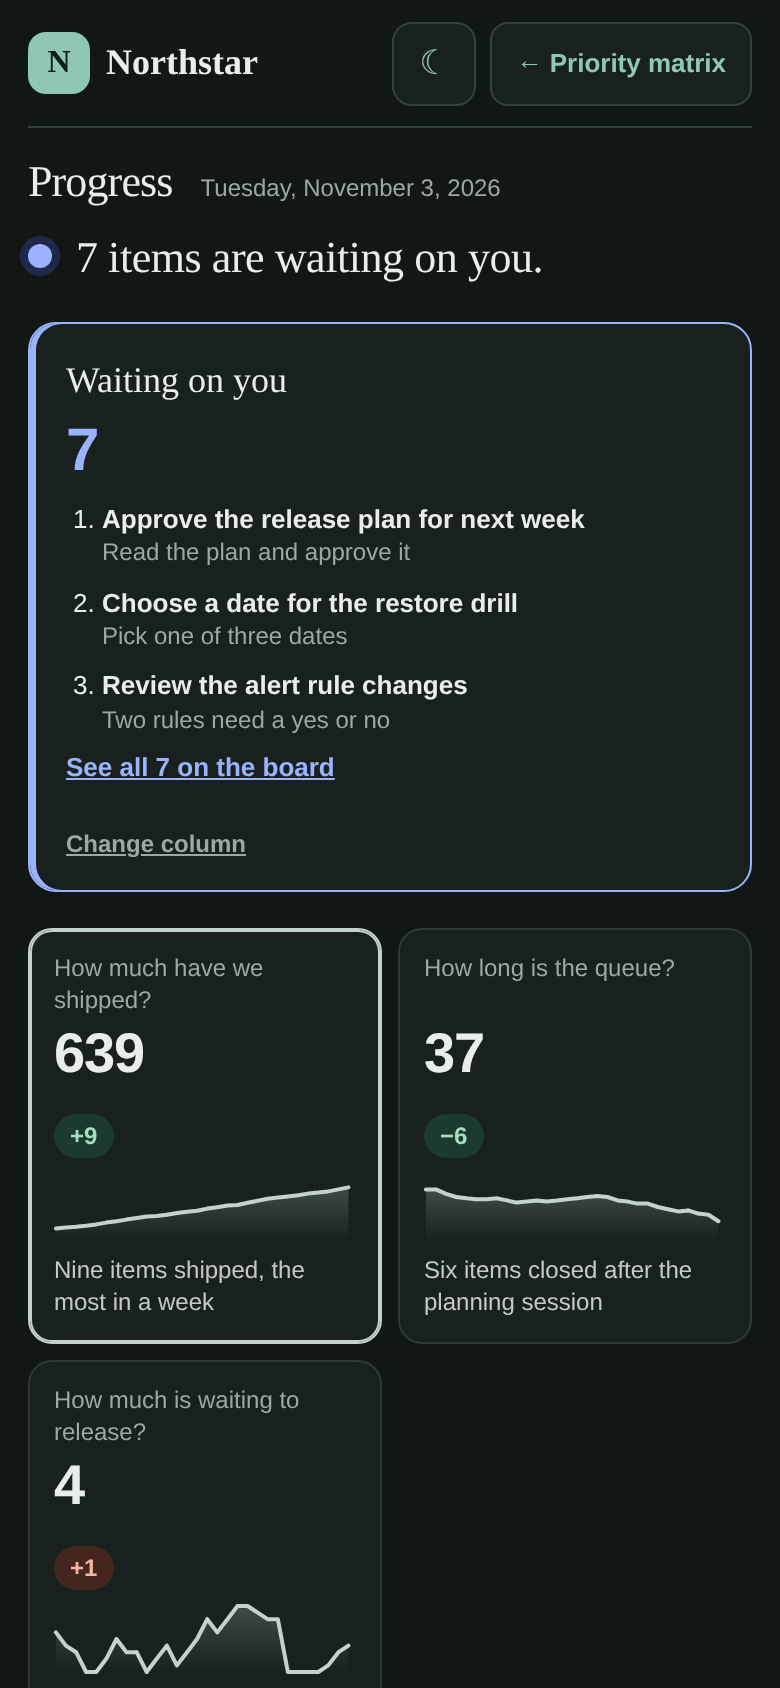
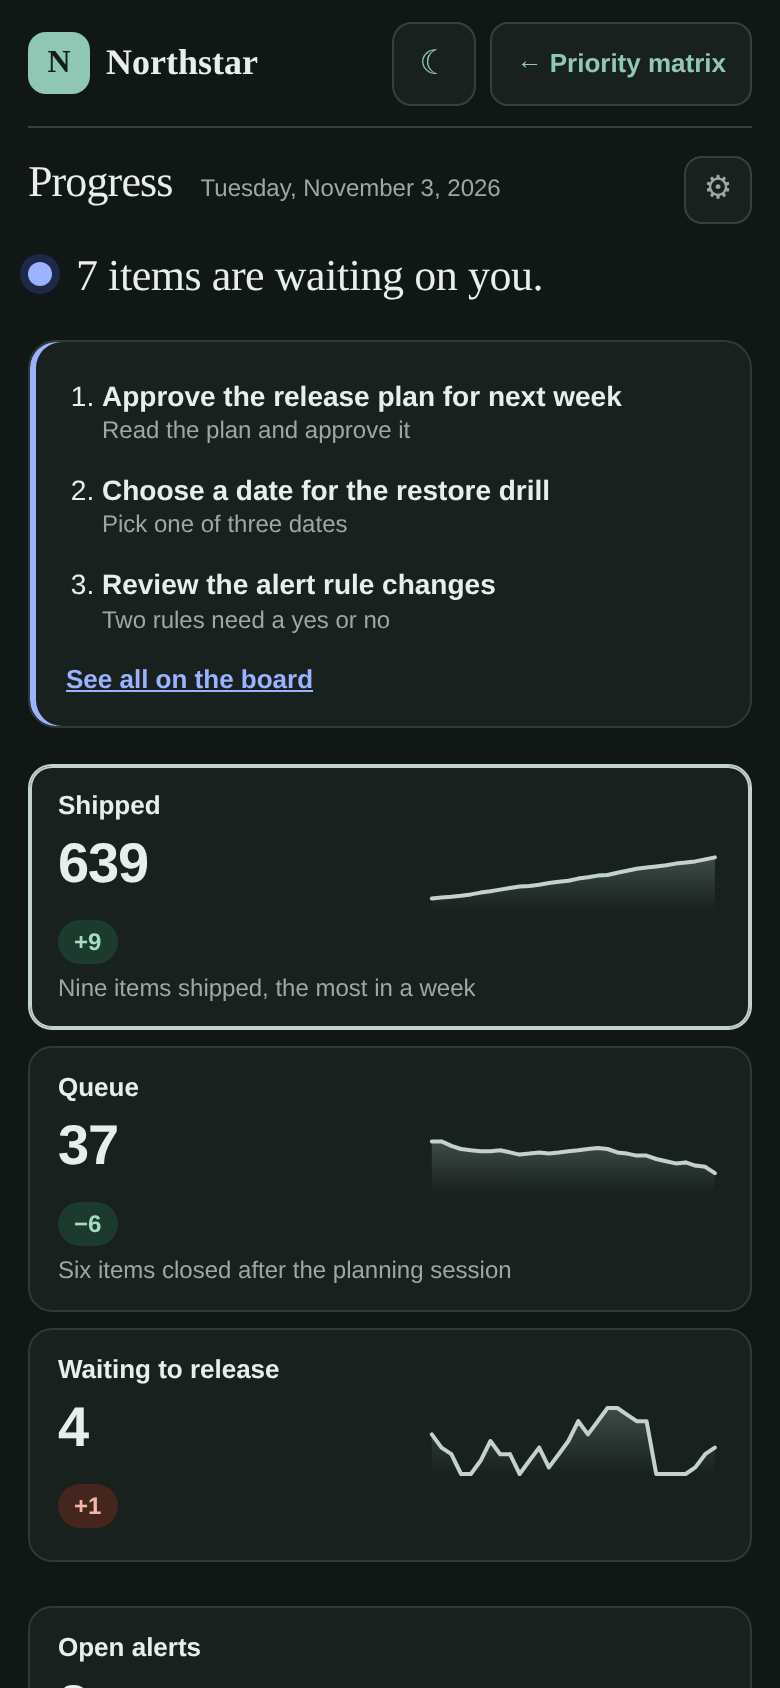
fix(progress): review changes; a server that fails to start no longer hangs the tests
Page:
- "Waiting on you" starts level with the first row of tiles and runs the
  bands' height; it drops its title and count (the headline has the count)
  and links "See all on the board"
- choosing its column moves to a settings button beside the page title
- tiles show a short label; the full question is the hover title
- the bands share one grid, so rows line up and are the same height; a tile
  without a "because" line keeps that space
- no chip when nothing changed
- phone: one column of tiles with the chart beside the number
- contrast is computed from the CSS tokens (support/progress-contrast.mjs)
  and tested; the estimated line was darkened to pass 3:1 on the page color

Tests:
- support/server-fixture.mjs killed nothing when a server missed its 5 s start
  deadline, so the live child kept the test file from exiting and the whole
  run hung under load. It now kills the server, fails the start, and waits
  up to 20 s (TEST_SERVER_START_MS). server-fixture.test.mjs covers it.

Claude-Session: https://claude.ai/code/session_01NksWZT8NUcsx668Qg2GBvW

diff --git a/public/progress.css b/public/progress.css
@@ -1,7 +1,7 @@
 /* Progress page. One accent color means "waiting on you"; everything else stays neutral.
    docs/progress-page.md explains the layout and the reading order. */
 :root {
-  --series:#3f504a; --series-wash:#3f504a; --estimated:#85928d; --grid:#e6ebe8;
+  --series:#3f504a; --series-wash:#3f504a; --estimated:#7b8883; --grid:#e6ebe8;
   --tile:#fff; --tile-line:#dfe5e1; --tile-hover:#f6f8f7;
   --good-ink:#1f5a43; --good-bg:#e1efe7; --bad-ink:#8c3524; --bad-bg:#f7e3de; --flat-ink:#5d6864; --flat-bg:#edf0ee;
   --accent:#2c50c4; --accent-soft:#e9eefc; --flag:#58645f; --skeleton:#e9edea; --skeleton-shine:#f5f7f6;
@@ -13,15 +13,23 @@
   --accent:#9bb3ff; --accent-soft:#1f2848; --flag:#a9b5b0; --skeleton:#1e2825; --skeleton-shine:#26322e;
 }
 
+.visually-hidden { position:absolute; width:1px; height:1px; margin:-1px; padding:0; overflow:hidden; clip:rect(0 0 0 0); white-space:nowrap; border:0; }
 .progress-head { max-width:1380px; margin:0 auto; }
+.progress-settings { margin-left:auto; align-self:center; width:34px; height:34px; padding:0; border:1px solid var(--line); border-radius:9px; color:var(--muted); background:var(--white); font-size:16px; line-height:1; }
+.progress-settings:hover { color:var(--ink); }
+.progress-settings[hidden] { display:none; }
+/* The headline spans the top; the panel starts level with the first row of tiles and runs the
+   bands' full height, so the Z ends on its list. */
 .progress-grid {
   max-width:1380px; margin:0 auto; display:grid; gap:20px 28px;
   grid-template-columns:minmax(0,1fr) 300px;
-  grid-template-areas:"headline needs" "bands needs" "focus focus" "reports reports";
+  grid-template-areas:"headline headline" "bands needs" "focus focus" "reports reports";
 }
 .progress-headline { grid-area:headline; min-width:0; }
-.progress-needs { grid-area:needs; align-self:end; }
-.bands { grid-area:bands; min-width:0; display:grid; grid-auto-columns:minmax(0,1fr); grid-auto-flow:column; gap:36px; align-items:start; }
+.progress-headline:empty { display:none; }
+.progress-needs { grid-area:needs; align-self:stretch; display:grid; }
+/* One grid for every band: each band is a column, and rows share one height so a row reads across. */
+.bands { grid-area:bands; min-width:0; display:grid; grid-template-columns:repeat(var(--bands, 3), minmax(0,1fr)); grid-auto-rows:1fr; column-gap:36px; row-gap:10px; }
 .focus { grid-area:focus; }
 .reports-section { grid-area:reports; }
 .progress-grid :focus-visible { outline:2px solid var(--accent); outline-offset:3px; }
@@ -31,16 +39,22 @@
 .status-dot { flex:0 0 auto; width:12px; height:12px; border-radius:50%; background:var(--accent); transform:translateY(-2px); box-shadow:0 0 0 4px var(--accent-soft); }
 
 /* 2. Bands: spacing alone separates them; tiles in a band sit close together. */
-.band { display:grid; gap:10px; min-width:0; }
+.band { display:contents; }
 .tile {
   position:relative; width:100%; min-width:0; padding:14px 16px 12px; border:1px solid var(--tile-line); border-radius:12px; background:var(--tile);
-  color:var(--ink); text-align:left; display:grid; grid-template-rows:30px 42px 22px 40px auto; row-gap:4px; font:inherit;
+  color:var(--ink); text-align:left; display:grid; grid-template-rows:auto 42px 22px 40px 32px; align-content:start; row-gap:4px; font:inherit;
+  grid-column:var(--col, auto); grid-row:var(--row, auto);
+  grid-template-areas:"label" "value" "chip" "spark" "because";
   transition:border-color .15s,background .15s,box-shadow .15s;
 }
+.tile-label { grid-area:label; color:var(--ink); font-size:13px; font-weight:650; line-height:1.3; }
+.tile-value { grid-area:value; }
+.tile-chip { grid-area:chip; }
+.tile .spark { grid-area:spark; }
+.tile-because { grid-area:because; }
 .tile:hover,.tile.linked { background:var(--tile-hover); border-color:var(--series-wash); }
 .tile.linked { box-shadow:0 0 0 1px var(--series-wash); }
 .tile[aria-pressed="true"] { border-color:var(--series); box-shadow:inset 0 0 0 1px var(--series); }
-.tile-question { color:var(--muted); font-size:12px; line-height:1.3; overflow:hidden; display:-webkit-box; -webkit-line-clamp:2; -webkit-box-orient:vertical; }
 .tile-value { display:flex; align-items:baseline; gap:6px; min-height:40px; }
 .tile-number { font-size:34px; font-weight:650; line-height:1.15; letter-spacing:-.02em; font-variant-numeric:tabular-nums; }
 .tile-unit { color:var(--muted); font-size:13px; }
@@ -49,12 +63,11 @@
 .tone-good { color:var(--good-ink); background:var(--good-bg); }
 .tone-bad { color:var(--bad-ink); background:var(--bad-bg); }
 .tone-neutral { color:var(--flat-ink); background:var(--flat-bg); }
-.tile-because { color:var(--ink); font-size:12px; line-height:1.35; opacity:.82; }
-.tile-because:empty { display:none; }
+.tile-because { color:var(--muted); font-size:12px; line-height:1.35; overflow:hidden; display:-webkit-box; -webkit-line-clamp:2; -webkit-box-orient:vertical; }
 
 /* Not measured yet: an empty outline with a faint dotted baseline. The reason is in the title. */
 .tile.unmeasured { background:transparent; border-style:dashed; }
-.tile.unmeasured .tile-question { color:var(--muted); }
+.tile.unmeasured .tile-label { color:var(--muted); }
 .spark-empty { stroke:var(--estimated); stroke-width:1.5; stroke-dasharray:1 4; stroke-linecap:round; vector-effect:non-scaling-stroke; }
 
 .spark { width:100%; height:40px; overflow:visible; }
@@ -74,14 +87,10 @@
 .spark-tip[hidden],.focus-tip[hidden] { display:none; }
 
 /* 5. Waiting on you: the end of the Z, and the only place the accent lives besides the dot. */
-.needs { padding:18px 18px 16px; border:1px solid var(--tile-line); border-radius:14px; background:var(--tile); display:grid; gap:8px; }
-.needs.has-items { border-color:var(--accent); box-shadow:inset 3px 0 0 var(--accent); }
-.needs h2 { margin:0; font:500 18px Georgia,serif; }
-.needs-count { margin:0; color:var(--muted); font-size:13px; }
-.needs-number { margin-right:4px; color:var(--ink); font-size:30px; font-weight:650; font-variant-numeric:tabular-nums; }
-.needs.has-items .needs-number { color:var(--accent); }
+.needs { padding:18px 18px 16px; border:1px solid var(--tile-line); border-radius:14px; background:var(--tile); display:grid; gap:14px; align-content:start; }
+.needs.has-items { box-shadow:inset 3px 0 0 var(--accent); }
 .needs-empty { margin:0; color:var(--muted); font-size:13px; line-height:1.45; }
-.needs-list { margin:0; padding:0 0 0 18px; display:grid; gap:8px; font-size:13px; line-height:1.35; }
+.needs-list { margin:0; padding:0 0 0 18px; display:grid; gap:12px; font-size:14px; line-height:1.35; }
 .needs-list a { color:var(--ink); font-weight:600; text-decoration:none; }
 .needs-list a:hover { text-decoration:underline; }
 .needs-meta { display:block; color:var(--muted); font-size:12px; }
@@ -167,19 +176,25 @@
 
 @media (max-width:1100px) {
   .progress-grid { grid-template-columns:minmax(0,1fr) 260px; }
-  .bands { gap:24px; }
+  .bands { column-gap:24px; }
 }
 /* Phone and narrow tablet: same order, stacked. Headline, waiting on you, bands, chart, reports. */
 @media (max-width:860px) {
   .progress-grid { grid-template-columns:minmax(0,1fr); grid-template-areas:"headline" "needs" "bands" "focus" "reports"; gap:18px; }
   .progress-needs { align-self:start; }
-  .bands { grid-auto-flow:row; grid-template-columns:minmax(0,1fr); gap:22px; }
-  .band { grid-template-columns:repeat(auto-fill,minmax(160px,1fr)); }
+  /* One column; a band is a group, and a wider gap separates the groups. */
+  .bands { display:flex; flex-direction:column; gap:22px; }
+  .band { display:grid; gap:8px; }
+  .tile {
+    grid-column:auto; grid-row:auto; grid-template-columns:minmax(0,1fr) minmax(0,44%); column-gap:14px;
+    grid-template-rows:auto auto auto auto; grid-template-areas:"label spark" "value spark" "chip spark" "because because";
+  }
+  .tile .spark { align-self:center; }
+  .tile-because:empty { display:none; }
   .focus { padding:16px 14px; }
   .progress-headline:empty { display:none; }
 }
 @media (max-width:420px) {
-  .band { grid-template-columns:minmax(0,1fr) minmax(0,1fr); gap:8px; }
-  .tile { padding:12px; }
+  .tile { padding:12px 14px; }
   .tile-number { font-size:28px; }
 }

diff --git a/public/progress.js b/public/progress.js
@@ -51,22 +51,27 @@ function renderTiles() {
   state.sparks.clear();
   const from = state.latestDate ? addDays(state.latestDate, -29) : undefined;
   let index = 0;
-  const columns = BANDS.map((band) => {
+  // One grid for every band, so a row of tiles lines up across the bands and every row is as tall
+  // as its tallest tile. Each band is a column; its tiles take rows 1, 2, 3 in position order.
+  const used = BANDS.filter((band) => state.summaries.some((summary) => (summary.def.band || 'momentum') === band.id));
+  const columns = used.map((band, column) => {
     const summaries = state.summaries.filter((summary) => (summary.def.band || 'momentum') === band.id);
-    if (!summaries.length) return null;
-    const column = el(document, 'div', { class: `band band-${band.id}`, role: 'group', 'aria-label': `${band.name}: ${band.hint.toLowerCase()}` });
-    for (const summary of summaries) {
+    const group = el(document, 'div', { class: `band band-${band.id}`, role: 'group', 'aria-label': `${band.name}: ${band.hint.toLowerCase()}` });
+    for (const [row, summary] of summaries.entries()) {
       const series = windowed(summary.series, 30, state.latestDate);
       const node = tile(document, summary, { because: because(summary), series, from, to: state.latestDate, index });
       node.style.setProperty('--i', String(index));
+      node.style.setProperty('--col', String(column + 1));
+      node.style.setProperty('--row', String(row + 1));
       index += 1;
-      column.appendChild(node);
+      group.appendChild(node);
       // The same box the view drew the sparkline with, so the crosshair lands on its points.
       const geometry = chartGeometry(series, { width: 160, height: 40, top: 4, bottom: 3, left: 1, right: 4, from, to: state.latestDate, ticks: 2 });
       state.sparks.set(summary.key, { summary, series, from, geometry });
     }
-    return column;
-  }).filter(Boolean);
+    return group;
+  });
+  bands.style.setProperty('--bands', String(used.length));
   bands.replaceChildren(...columns);
   bands.classList.toggle('reveal', !reducedMotion.matches);
   for (const node of bands.querySelectorAll('.tile')) wireTile(node);
@@ -122,9 +127,14 @@ function renderHeadline() {
 }
 
 function renderNeeds() {
-  const panel = needsPanel(document, state.needs, { admin: state.user?.role === 'admin' });
+  const admin = state.user?.role === 'admin';
+  const panel = needsPanel(document, state.needs, { admin });
   panel.querySelector('.needs-choose')?.addEventListener('click', () => chooseColumn(panel));
   document.getElementById('progress-needs').replaceChildren(panel);
+  // Choosing the column is setup, not reading: it lives behind the header's settings button.
+  const settings = document.getElementById('progress-settings');
+  settings.hidden = !admin;
+  settings.onclick = () => chooseColumn(document.querySelector('#progress-needs .needs'));
 }
 
 async function chooseColumn(panel) {
@@ -183,8 +193,8 @@ function renderFocus() {
     milestones.length ? el(document, 'span', { class: 'legend-flag' }, 'Milestone') : null);
   const plot = el(document, 'div', { class: 'focus-plot' });
   const head = el(document, 'header', { class: 'focus-head' },
-    el(document, 'div', {}, el(document, 'h2', { id: 'focus-title' }, summary.def.question || summary.def.label),
-      summary.def.description ? el(document, 'p', { class: 'focus-description' }, summary.def.description) : null),
+    el(document, 'div', {}, el(document, 'h2', { id: 'focus-title' }, summary.def.label),
+      summary.def.question ? el(document, 'p', { class: 'focus-description' }, summary.def.question) : null),
     rangeButtons);
   const details = el(document, 'details', { class: 'focus-table' }, el(document, 'summary', {}, 'Show the numbers'), el(document, 'div', { class: 'docs-table' }, dataTable(document, summary, series)));
   section.replaceChildren(head, legend, plot, details);

diff --git a/public/progress-view.js b/public/progress-view.js
@@ -52,16 +52,17 @@ export function sparkline(doc, summary, { series, from, to, width = 160, height 
 }
 
 // One tile. The number sits in the same place in every tile; the chip under it is the change since
-// the previous reading, tinted by the metric's direction.
+// the previous reading, tinted by the metric's direction. The tile shows a short label; its question
+// is the hover title. A zero change shows no chip.
 export function tile(doc, summary, { because = '', series, from, to, index = 0 } = {}) {
   const { def, latest } = summary;
   const measured = Boolean(latest);
   const node = el(doc, 'button', {
     type: 'button', class: `tile${measured ? '' : ' unmeasured'}`, 'data-key': def.key, 'data-index': index,
     'aria-label': tileName(summary), 'aria-pressed': 'false',
-    title: measured ? undefined : `Not measured yet.${def.startsWhen ? ` Starts when ${def.startsWhen}.` : ''}`,
+    title: [def.question || '', measured ? '' : `Not measured yet.${def.startsWhen ? ` Starts when ${def.startsWhen}.` : ''}`].filter(Boolean).join(' ') || undefined,
   });
-  node.appendChild(el(doc, 'span', { class: 'tile-question' }, def.question || def.label));
+  node.appendChild(el(doc, 'span', { class: 'tile-label' }, def.label));
   const value = el(doc, 'span', { class: 'tile-value' });
   if (measured) {
     value.appendChild(el(doc, 'span', { class: 'tile-number', 'data-value': latest.value, 'data-unit': def.unit }, formatNumber(latest.value)));
@@ -82,16 +83,16 @@ export function headlineNode(doc, model) {
   return el(doc, 'p', { class: 'headline', id: 'headline' }, el(doc, 'span', { class: 'status-dot', 'aria-hidden': 'true' }), model.text);
 }
 
-// "Waiting on you": the count, the first three cards and a link to the column.
+// "Waiting on you": the first three cards and a link to the column. The headline carries the count,
+// so the panel repeats neither; its heading is for screen readers only.
 export function needsPanel(doc, needs, { admin = false } = {}) {
   const panel = el(doc, 'section', { class: `needs${needs.count ? ' has-items' : ''}`, 'aria-labelledby': 'needs-title' });
-  panel.appendChild(el(doc, 'h2', { id: 'needs-title' }, 'Waiting on you'));
+  panel.appendChild(el(doc, 'h2', { id: 'needs-title', class: 'visually-hidden' }, 'Waiting on you'));
   if (!needs.configured) {
     panel.appendChild(el(doc, 'p', { class: 'needs-empty' }, admin ? 'Choose the board column that holds what needs you.' : 'An admin can choose the board column for this list.'));
     if (admin) panel.appendChild(el(doc, 'button', { type: 'button', class: 'button secondary needs-choose' }, 'Choose a column'));
     return panel;
   }
-  panel.appendChild(el(doc, 'p', { class: 'needs-count', title: `Cards in ${needs.columnName} on the ${needs.teamName} board` }, el(doc, 'span', { class: 'needs-number' }, formatNumber(needs.count))));
   if (!needs.count) {
     panel.appendChild(el(doc, 'p', { class: 'needs-empty' }, 'Nothing is waiting on you.'));
   } else {
@@ -105,8 +106,7 @@ export function needsPanel(doc, needs, { admin = false } = {}) {
     }
     panel.appendChild(list);
   }
-  panel.appendChild(el(doc, 'a', { class: 'needs-board', href: `/kanban.html?teamId=${encodeURIComponent(needs.teamId)}` }, needs.count > 3 ? `See all ${formatNumber(needs.count)} on the board` : 'Open the board'));
-  if (admin) panel.appendChild(el(doc, 'button', { type: 'button', class: 'text-button needs-choose' }, 'Change column'));
+  panel.appendChild(el(doc, 'a', { class: 'needs-board', href: `/kanban.html?teamId=${encodeURIComponent(needs.teamId)}`, title: `${needs.columnName} on the ${needs.teamName} board` }, 'See all on the board'));
   return panel;
 }
 

diff --git a/public/progress-model.js b/public/progress-model.js
@@ -57,11 +57,10 @@ export function summarize(def, series) {
   };
 }
 
-// The chip under a tile's number: "+3", "−2", "0". The words go in its accessible name.
+// The chip under a tile's number: "+3" or "−2"; nothing when there is no change. The words go in its accessible name.
 export function signedChange(summary) {
   const { change, previous, def } = summary;
-  if (!previous || change === null) return '';
-  if (!change) return '0';
+  if (!previous || !change) return '';
   return `${change > 0 ? '+' : '−'}${formatNumber(Math.abs(change), def.unit === '%' ? '%' : '')}`;
 }
 

diff --git a/public/progress.html b/public/progress.html
@@ -22,6 +22,7 @@
       <section class="page-head page-title progress-head">
         <h1>Progress</h1>
         <p class="subtitle" id="progress-asof"></p>
+        <button class="progress-settings" id="progress-settings" type="button" hidden aria-label="Choose the board column for Waiting on you" title="Choose the board column for Waiting on you"><span aria-hidden="true">⚙</span></button>
       </section>
 
       <div class="progress-grid" id="progress-app" aria-busy="true">

diff --git a/docs/progress-page.md b/docs/progress-page.md
@@ -10,68 +10,59 @@ and bottom right. The text and the charts point at each other, so one pass answe
 | 1 to 5 seconds | What changed today? | Three bands of tiles, read left to right |
 | 5 to 15 seconds | Why? | A "because" line under each change, linked to the day's report |
 | After 15 seconds | How did we get here? | A focus chart with the full history and a milestone strip |
-| End of the scan | What do I do now? | A "Waiting on you" panel, bottom right of the first screen |
+| End of the scan | What do I do now? | A "Waiting on you" list at the right of the tiles |
 
 ## 1. Are we OK? The headline
 
-The headline is one or two plain sentences, built by fixed rules so it reads the same way
-every day:
+The headline says only what the tiles cannot: what is waiting on the reader, and, when it is
+known, the cause of the day's worst move. For example: "Failed checks rose after the runner
+update. 35 items are waiting on you." With nothing waiting, there is no headline.
 
-1. "Day N." N counts the days from the first recorded day to the latest one, both included.
-2. The two biggest moves in the right direction, then the biggest move in the wrong direction.
-   A move is the change since the previous reading, divided by the size of the previous
-   reading (at least 1), so a metric of 3 that goes to 6 counts more than one of 300 that
-   goes to 310. Metrics that are neither good nor bad when they go up are left out.
-3. The number of items waiting on the reader, from the board column chosen in the settings.
-
-For example: "Day 98. Pull requests merged went up and open queue went down. Failed checks
-went the wrong way. 35 items are waiting on you."
-
-Plurals follow the count ("1 item is", "2 items are"). When nothing moved, the headline says
-so. When no column is chosen, the last sentence is left out.
-
-The status dot uses the page's one accent color when something is waiting on the reader, and a
-neutral color when nothing is.
+The worst move is the biggest change in the wrong direction since the previous reading, divided
+by the size of that reading (at least 1). Its cause is the tile's "because" line. Plurals follow
+the count ("1 item is", "2 items are"). The status dot beside it uses the page's one accent color.
 
 ## 2. What changed today? Three bands
 
-Metrics belong to one of three bands, read left to right as cause and effect:
-
-- Momentum: what the team moved forward (for example, items shipped, the open queue).
-- Health: whether the system is well (for example, open alerts, error budget left).
-- Trust: whether people can rely on it (for example, open security findings, mistakes).
+Metrics belong to one of three bands, read left to right as cause and effect: momentum (what
+the team moved forward), health (whether the system is well) and trust (whether people can rely
+on it). Each band is a column. Spacing separates the bands, so they need no headings. The bands
+share one grid: a row of tiles lines up across the bands, and every row is as tall as its
+tallest tile.
 
 Each tile has the same layout, so the number sits in the same place in every tile:
 
-1. Its question, the one line it answers ("How much did we ship?").
-2. The latest value in tabular figures, with its unit.
-3. The change since yesterday, in words ("Up 3 since yesterday"). Its color comes from the
-   metric's direction: up is good for some metrics and bad for others, so the color says
-   good or bad, never up or down.
-4. A small chart of the last 30 days. Points estimated from history are drawn hollow.
+1. A short label ("Shipped"). The full question ("How much have we shipped?") is the hover title.
+2. The latest value in tabular figures, with its unit when the unit adds meaning.
+3. The change since the previous reading as a signed number ("+3"). Its tint comes from the
+   metric's direction, because up is good for some metrics and bad for others. No change shows
+   no chip.
+4. A small chart of the last 30 days. Values estimated from history are a dashed, lighter line.
+5. The "because" line, or empty space when there is none.
 
-A metric with no readings yet shows a dim tile that says "Not measured yet. Starts when …",
-never a zero.
+A metric with no readings yet is an empty outline with a faint dotted baseline. The reason
+("Not measured yet. Starts when …") is only in its hover title.
 
 ## 3. Why? The "because" line
 
-Under each change is one line that explains it. It comes from, in order: the note on the
-day's reading, a line of the day's report that names the metric, or a milestone on that day.
+Under each tile is one short line that explains the change. It comes from, in order: the note
+on the day's reading, a line of the day's report that names the metric, or a milestone that day.
 Hovering a report line highlights its tile, and hovering a tile highlights its report lines.
 
 ## 4. How did we get here? The focus chart
 
 Selecting a tile opens its full history in a large chart, with the last 30 days, 90 days or
-everything. Milestones are flags on the line; points estimated from history are hollow. A
-crosshair follows the pointer, or the arrow keys, and shows the date, the value and the note.
-A table with the same numbers is one click away. Under the chart, a strip shows every
-milestone on one timeline.
+everything. Milestones are small flags on the line; a flag's label shows on hover, and in full
+in the strip under the chart. A crosshair follows the pointer, or the arrow keys, and shows the
+date, the value and the note. A table with the same numbers is one click away.
 
 ## 5. What do I do now? Waiting on you
 
-The last stop of the scan, bottom right of the first screen, lists the count and the first
-three cards of one board column. An admin chooses the team and column. This panel and the
-status dot are the only places that use the accent color.
+The panel starts level with the first row of tiles and runs the height of the bands, so the Z
+ends on its list. It lists the first three cards of one board column and links to the board.
+The headline already gives the count, so the panel repeats neither the count nor a title. An
+admin chooses the column with the settings button beside the page title. The panel's rule and
+the status dot are the only places that use the accent color.
 
 ## Below the first screen: daily reports
 
@@ -94,7 +85,13 @@ broken or empty for no reason.
 ## Small screens
 
 On a phone, the parts keep their order and stack: headline, waiting on you, the bands, the
-focus chart, then the reports.
+focus chart, then the reports. Tiles are one column, with the chart beside the number, and a
+wider gap separates the bands.
+
+## Contrast
+
+Text meets 4.5:1 and lines and dots meet 3:1 in both themes. `support/progress-contrast.mjs`
+computes every pair from the CSS color tokens, and a test fails when one drops below.
 
 ## Writing
 
